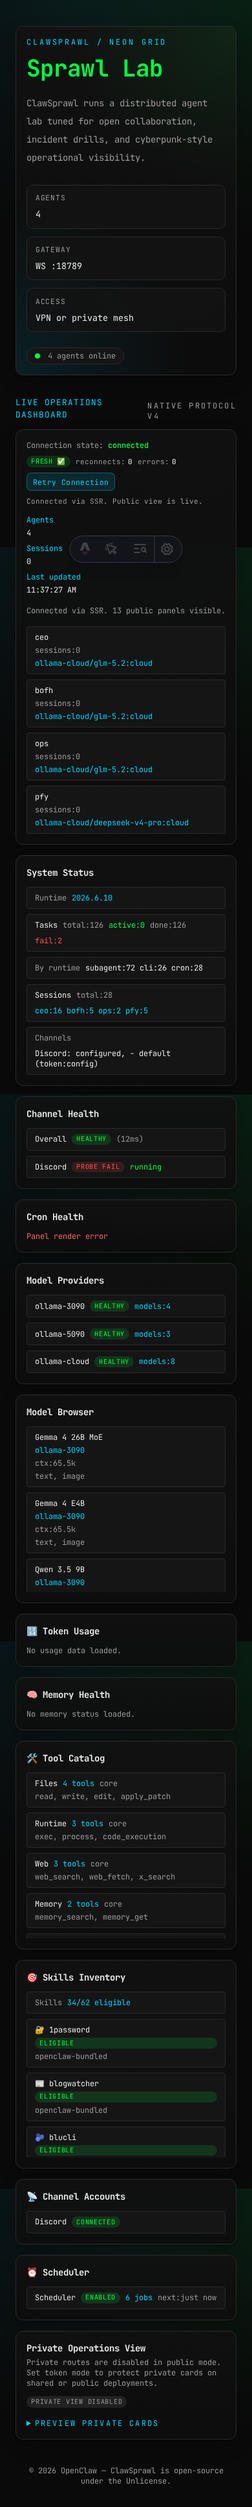
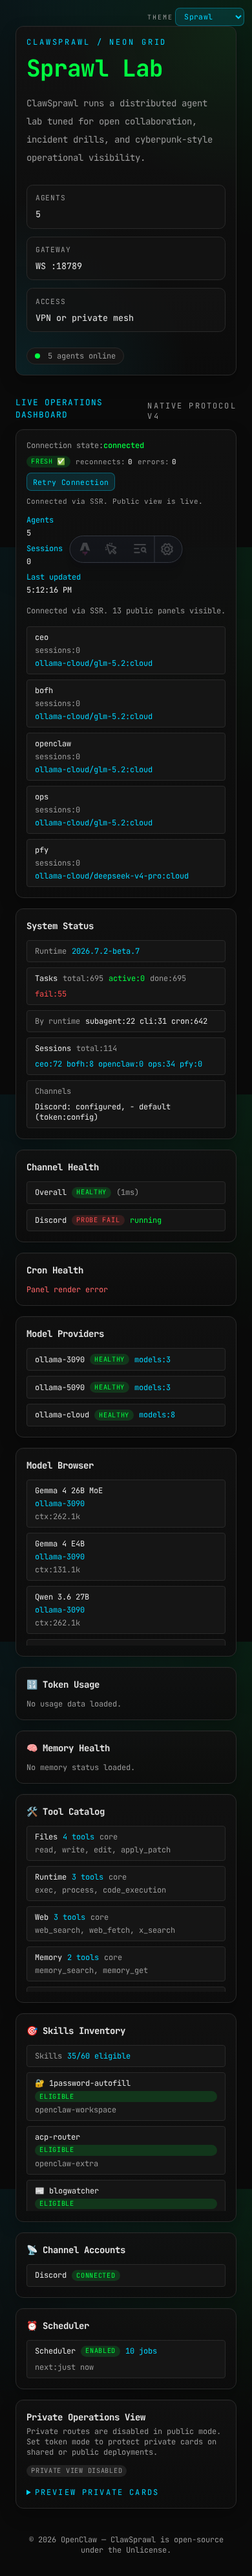
feat(gateway): beta7-ready device pairing + refreshed screenshots
Make the dashboard work with OpenClaw 2026.7.2-beta.6/7, which enforces
device identity for the openclaw-control-ui operator client and grants
NO operator scopes to the reserved loopback backend path. A shared token
alone no longer reads gateway data — the dashboard must connect as a
paired operator device to get operator.read.

Device auth (protocol.ts):
- Auto-derive device.id from the Ed25519 public key (SHA-256 of the raw
  32-byte key, hex) when CLAWSPRAWL_DEVICE_ID is not supplied — matches
  the gateway's DEVICE_AUTH_DEVICE_IDENTITY_REQUIRED check. Operators can
  now supply only the keypair.
- Fix a v3 signature mismatch: signChallenge used platform 'server' (Node)
  while buildConnectParams sent client.platform 'unknown'; both now share
  resolveClientPlatform() so the gateway's payload reconstruction matches.

Server service:
- Default to the openclaw-control-ui/webchat operator identity (the
  gateway-client/backend loopback path connects but receives scopes: []
  on beta7, rendering an empty dashboard).
- Surface an actionable bootstrap hint when the gateway requires a paired
  device (CONTROL_UI_DEVICE_IDENTITY_REQUIRED) or returns MISSING_SCOPE
  without a configured device — points operators to npm run setup:device.

Setup + scripts:
- scripts/setup-device-identity.mjs (npm run setup:device) generates an
  Ed25519 device keypair + derived id and prints the env vars + approval
  instructions (openclaw devices approve <id>).
[…]

diff --git a/src/lib/gateway/protocol.ts b/src/lib/gateway/protocol.ts
@@ -6,7 +6,7 @@ import type {
   RequestFrame,
   ResponseFrame,
 } from './types';
-import { createPrivateKey, sign as ed25519Sign } from 'node:crypto';
+import { createHash, createPrivateKey, createPublicKey, sign as ed25519Sign } from 'node:crypto';
 
 // ---------------------------------------------------------------------------
 // Request ID generation
@@ -101,6 +101,33 @@ function normalizeDeviceMetadataForAuth(value: unknown): string {
 }
 
 /**
+ * Resolve the client platform for the connect handshake. Must be used by BOTH
+ * {@link buildConnectParams} (client.platform) and {@link signChallenge} (v3
+ * payload platform) so the gateway's signature reconstruction matches exactly.
+ * In a Node SSR context this is 'server'; in a browser it reflects navigator.platform.
+ */
+function resolveClientPlatform(): string {
+  return typeof navigator !== 'undefined' ? (navigator.platform ?? 'unknown') : 'server';
+}
+
+/**
+ * Derive the OpenClaw device id from an Ed25519 public key: the SHA-256 of the
+ * raw 32-byte public key, hex-encoded (64 chars). The gateway computes the same
+ * value and rejects connects whose device.id does not match
+ * (DEVICE_AUTH_DEVICE_ID_MISMATCH). Deriving it here lets operators supply only
+ * the keypair (CLAWSPRAWL_DEVICE_PUBLIC_KEY) instead of also computing the id.
+ */
+function deriveDeviceId(publicKeyPem: string): string | undefined {
+  try {
+    const der = createPublicKey(Buffer.from(publicKeyPem, 'utf-8')).export({ type: 'spki', format: 'der' });
+    const raw = der.subarray(der.length - 32); // Ed25519 raw public key (last 32 bytes of SPKI DER)
+    return createHash('sha256').update(raw).digest('hex');
+  } catch {
+    return undefined;
+  }
+}
+
+/**
  * Build the v3 device auth signature payload string.
  * The gateway reconstructs this exact string and verifies the signature against it.
  */
@@ -139,10 +166,9 @@ function buildDeviceAuthPayloadV3(params: {
  * Sign the connect challenge with an Ed25519 private key using the v3 payload format.
  * Returns a base64url-encoded signature, or undefined if signing fails.
  */
-function signChallenge(options: GatewayClientOptions, nonce: string, privateKeyPem: string): { signature: string; signedAt: number } | undefined {
+function signChallenge(options: GatewayClientOptions, nonce: string, privateKeyPem: string, deviceId: string): { signature: string; signedAt: number } | undefined {
   try {
     const signedAt = Date.now();
-    const deviceId = options.deviceId!;
     const payload = buildDeviceAuthPayloadV3({
       deviceId,
       clientId: options.clientId ?? 'gateway-client',
@@ -152,7 +178,7 @@ function signChallenge(options: GatewayClientOptions, nonce: string, privateKeyP
       signedAtMs: signedAt,
       token: options.token ?? '',
       nonce,
-      platform: typeof navigator !== 'undefined' ? navigator.platform ?? 'unknown' : 'server',
+      platform: resolveClientPlatform(),
     });
     const key = createPrivateKey(Buffer.from(privateKeyPem, 'utf-8'));
     const signature = ed25519Sign(undefined, Buffer.from(payload, 'utf-8'), key);
@@ -163,8 +189,11 @@ function signChallenge(options: GatewayClientOptions, nonce: string, privateKeyP
 }
 
 export function buildConnectParams(options: GatewayClientOptions, challengeNonce?: string): ConnectParams {
-  const signed = (challengeNonce && options.deviceId && options.devicePrivateKey)
-    ? signChallenge(options, challengeNonce, options.devicePrivateKey)
+  // device.id is derived from the public key (sha256 of the raw Ed25519 key) when
+  // not supplied explicitly — matching the OpenClaw gateway's device-identity check.
+  const deviceId = options.deviceId ?? (options.devicePublicKey ? deriveDeviceId(options.devicePublicKey) : undefined);
+  const signed = (challengeNonce && deviceId && options.devicePrivateKey)
+    ? signChallenge(options, challengeNonce, options.devicePrivateKey, deviceId)
     : undefined;
   return {
     minProtocol: MIN_PROTOCOL_VERSION,
@@ -172,7 +201,7 @@ export function buildConnectParams(options: GatewayClientOptions, challengeNonce
     client: {
       id: options.clientId ?? 'gateway-client',
       version: options.clientVersion ?? CLIENT_VERSION,
-      platform: typeof navigator !== 'undefined' ? navigator.platform ?? 'unknown' : 'unknown',
+      platform: resolveClientPlatform(),
       mode: options.clientMode ?? 'ui',
       ...(options.clientDisplayName ? { displayName: options.clientDisplayName } : {}),
     },
@@ -185,9 +214,9 @@ export function buildConnectParams(options: GatewayClientOptions, challengeNonce
     role: options.role ?? 'operator',
     scopes: options.scopes ?? ['operator.read'],
     ...(options.caps?.length ? { caps: options.caps } : {}),
-    ...(options.deviceId ? {
+    ...(deviceId ? {
       device: {
-        id: options.deviceId,
+        id: deviceId,
         publicKey: options.devicePublicKey ?? '',
         ...(challengeNonce ? { nonce: challengeNonce } : {}),
         ...(signed ? { signature: signed.signature, signedAt: signed.signedAt } : {}),

diff --git a/src/lib/gateway/server-service.ts b/src/lib/gateway/server-service.ts
@@ -189,8 +189,8 @@ export class GatewayServerService {
       url: gatewayUrl,
       fallbackUrl: SERVICE_CONFIG.FALLBACK_GATEWAY_URL,
       token: gatewayToken || undefined,
-      clientId: process.env.CLAWSPRAWL_CLIENT_ID ?? 'gateway-client',
-      clientMode: process.env.CLAWSPRAWL_CLIENT_MODE ?? 'backend',
+      clientId: process.env.CLAWSPRAWL_CLIENT_ID ?? 'openclaw-control-ui',
+      clientMode: process.env.CLAWSPRAWL_CLIENT_MODE ?? 'webchat',
       clientVersion: CLIENT_VERSION,
       clientDisplayName: 'ClawSprawl Dashboard (SSR)',
       role: 'operator',
@@ -299,6 +299,21 @@ export class GatewayServerService {
 
       this.initialized = true;
     } catch (err) {
+      // Surface an actionable hint when the gateway requires device pairing
+      // (OpenClaw 2026.7.2-beta.6+ enforces device identity for the control-ui
+      // operator client and grants no operator scopes to the reserved loopback
+      // `backend` path). Without a paired device the dashboard connects but every
+      // data RPC returns MISSING_SCOPE, so the dashboard renders empty.
+      const msg = err instanceof Error ? err.message : String(err);
+      if (/CONTROL_UI_DEVICE_IDENTITY_REQUIRED|device identity/i.test(msg) ||
+          (process.env.CLAWSPRAWL_DEVICE_PUBLIC_KEY === undefined && /MISSING_SCOPE.*operator\.read/i.test(msg))) {
+        console.warn(
+          '[clawsprawl:server] gateway requires a paired operator device for operator.read. ' +
+          'Generate a device identity with `npm run setup:device` and set ' +
+          'CLAWSPRAWL_DEVICE_PUBLIC_KEY / CLAWSPRAWL_DEVICE_PRIVATE_KEY (and approve the ' +
+          'pending pairing on the gateway with `openclaw devices approve <id>`).',
+        );
+      }
       console.warn('[clawsprawl:server] gateway bootstrap failed:', err);
       this.cache.connectionState = 'error';
       this.initialized = false;

diff --git a/src/lib/gateway/protocol.test.ts b/src/lib/gateway/protocol.test.ts
@@ -393,6 +393,24 @@ describe('gateway protocol helpers', () => {
       expect(params.device).toBeUndefined();
     });
 
+    it('derives device.id from the public key when deviceId is not supplied', () => {
+      const params = buildConnectParams({
+        url: TEST_URL,
+        devicePublicKey: testKeys.publicKey,
+        devicePrivateKey: testKeys.privateKey,
+      }, 'nonce-derive');
+      expect(params.device?.id).toBe(testKeys.deviceId);
+    });
+
+    it('prefers an explicit deviceId over the derived one', () => {
+      const params = buildConnectParams({
+        url: TEST_URL,
+        deviceId: 'explicit-id',
+        devicePublicKey: testKeys.publicKey,
+      });
+      expect(params.device?.id).toBe('explicit-id');
+    });
+
     it('includes nonce in device block when challengeNonce is provided', () => {
       const params = buildConnectParams({
         url: TEST_URL,

diff --git a/CHANGELOG.md b/CHANGELOG.md
@@ -23,6 +23,15 @@ _Catch up the uplink; lock down the supply chain. Astro 7 / Vite 8 dependency sw
 - Enrich rejected RPC errors with structured `code` + `details` so OpenClaw's structured `MISSING_SCOPE` ({ code:'FORBIDDEN', details:{ code:'MISSING_SCOPE', missingScope, requiredScopes } }) is surfaced to callers.
 - Add Activity-Feed buckets for OpenClaw v4 events: `config.changed`, `skills.changed`, `node.presence` broadcast + `node.presence.activity`, `session.approval`, `session.observer`, and connection-scoped `terminal.*`.
 
+### Added — OpenClaw 2026.7.2-beta device pairing
+- OpenClaw 2026.7.2-beta.6+ enforces device identity for the `openclaw-control-ui` operator client and grants no operator scopes to the reserved loopback `backend` path, so a shared token alone no longer reads gateway data. The dashboard now defaults to the `openclaw-control-ui`/`webchat` operator identity and supports paired-device auth end-to-end.
+- Auto-derive `device.id` from the Ed25519 public key (SHA-256 of the raw 32-byte key, hex) when `CLAWSPRAWL_DEVICE_ID` is not supplied, matching the gateway's device-identity check (`DEVICE_AUTH_DEVICE_ID_MISMATCH`).
+- Fix a v3 device-auth signature mismatch: `signChallenge` used `platform: 'server'` (Node) while `buildConnectParams` sent `client.platform: 'unknown'`; both now share `resolveClientPlatform()` so the gateway's payload reconstruction matches.
+- Add `scripts/setup-device-identity.mjs` (`npm run setup:device`) to generate an Ed25519 device keypair + derived id and print the env vars + approval instructions.
+- Surface an actionable bootstrap hint when the gateway requires a paired device (CONTROL_UI_DEVICE_IDENTITY_REQUIRED) or returns MISSING_SCOPE without a configured device.
+- Fix `docs:screenshots`: it set `CLAWSPRAWL_MODE=token` (which the spec skips — it only captures in `public`/`insecure`) and hardcoded the scope-less `backend` identity. It now runs both `public` and `insecure` passes and inherits the device-paired client identity from the environment.
+- Refresh the four docs screenshots against a live OpenClaw 2026.7.2-beta.7 gateway (5 agents, 14 models).
+
 ### Changed — Docs
 - Update README Astro badge (6.x → 7.x), architecture-overview protocol label (v3 → v4), the OpenClaw capability audit (newly-stable + removed/renamed methods, protocol v5 tracking), and the heredoc API/sourcecode method list.
 
